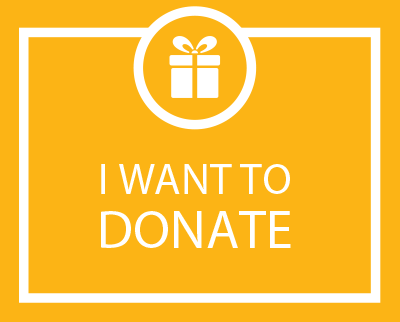
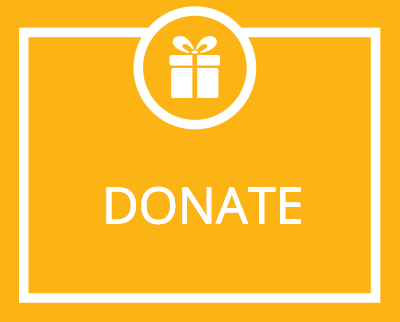
Adjust homepage donate button, change links for homepage buttons.

Changed region(s): [[0.24, 0.4969, 0.75, 0.7764]]

diff --git a/page-front.php b/page-front.php
@@ -15,19 +15,19 @@ get_header();
 		<div class="home-sections">
 			
 			<section>
-				<a href="#"><img src="<?php bloginfo('template_url') ?>/img/home-scholarships.png"></a>
+				<a href="/scholarships-and-grants"><img src="<?php bloginfo('template_url') ?>/img/home-scholarships.png"></a>
 			</section>
 
 			<section>
-				<a href="#"><img src="<?php bloginfo('template_url') ?>/img/home-programs.png"></a>
+				<a href="/programs"><img src="<?php bloginfo('template_url') ?>/img/home-programs.png"></a>
 			</section>
 
 			<section>
-				<a href="#"><img src="<?php bloginfo('template_url') ?>/img/home-donate.png"></a>
+				<a href="/donate"><img src="<?php bloginfo('template_url') ?>/img/home-donate.png"></a>
 			</section>
 
 			<section>
-				<a href="#"><img src="<?php bloginfo('template_url') ?>/img/home-friends.png"></a>
+				<a href="/friends-of-the-foundation"><img src="<?php bloginfo('template_url') ?>/img/home-friends.png"></a>
 			</section>
 
 		</div>
